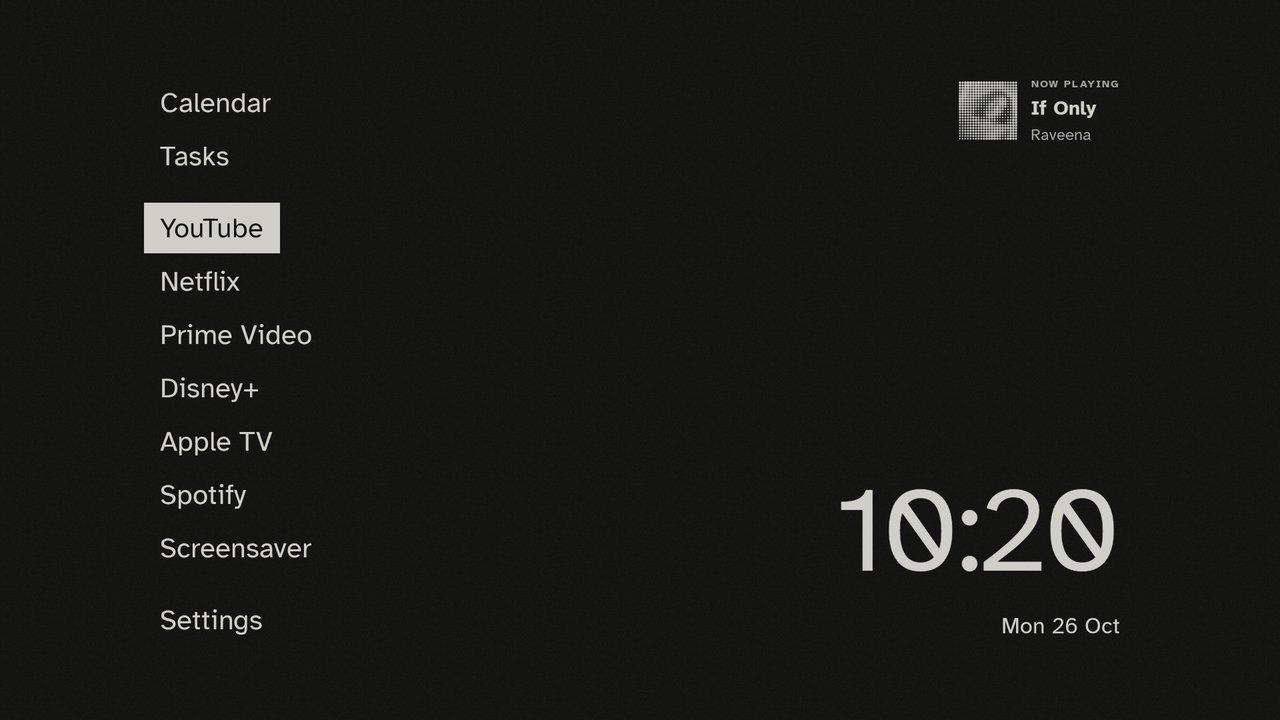
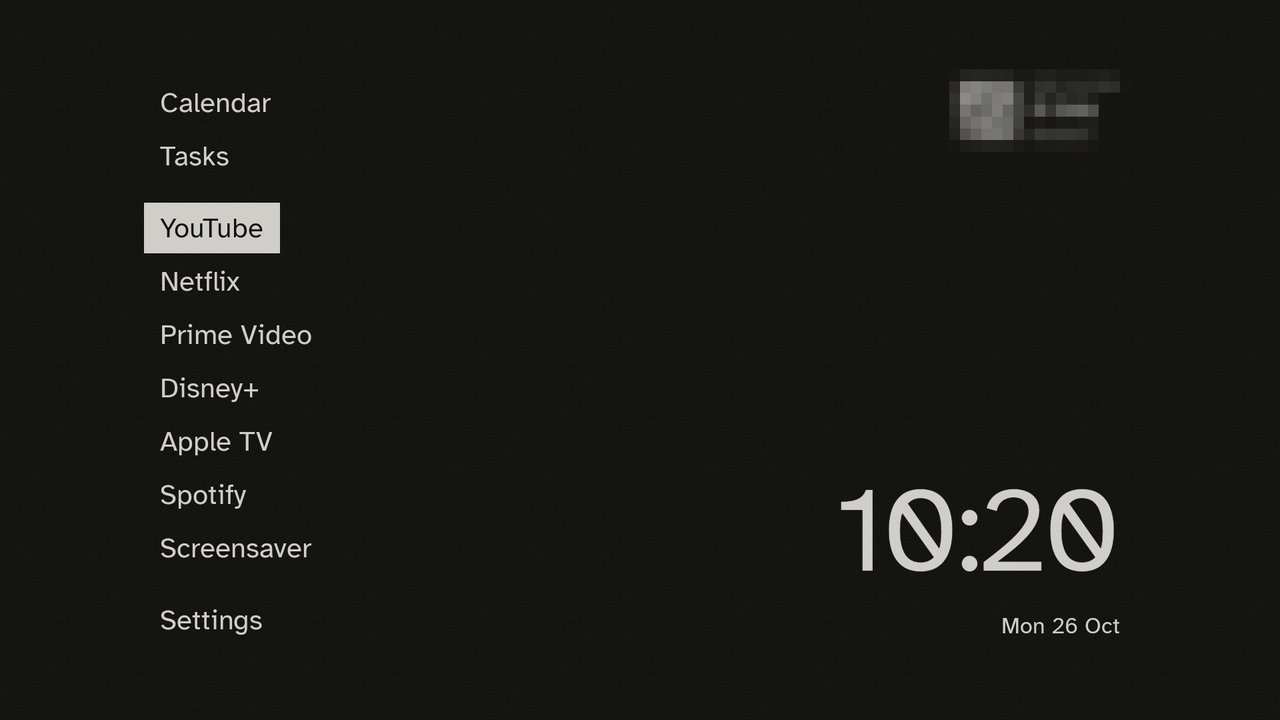
docs: connect your own Google Calendar and Tasks (docs/google-calendar-tasks.md)
A step-by-step guide for anyone setting up Today: the Apps Script in their own account, what Google asks, a
browser test, building it in, family calendars, changing the key and troubleshooting. The script now asks
for read-only Calendar access and Tasks only, and follows the person's Google Calendar time zone, so there
is nothing to set per country. The Home screenshot's now-playing block is blurred.

Changed region(s): [[0.7188, 0.0917, 0.875, 0.2139]]

diff --git a/docs/google-calendar-tasks.md b/docs/google-calendar-tasks.md
@@ -1,0 +1,144 @@
+# Your Google Calendar and Tasks on the TV
+
+This guide connects **your own** Google Calendar and Google Tasks to the Ink edition: the Calendar and Tasks rows on
+the e-ink Home, their previews, the full Calendar and Tasks screens (where OK ticks a task off), the morning board
+and the "Next" line on the screensaver. It takes about fifteen minutes, in a web browser, and needs no programming.
+
+You need a Google account with your calendar in it, and a computer with this repository on it (the same one you
+build the apps with).
+
+## How it works
+
+```
+ Google Calendar ─┐                                    ┌─> Today add-on on the TV ─> e-ink Home
+ Google Tasks ────┼─> your Apps Script (your account) ─┤     (asks every 15 minutes
+                  │    answers with today's agenda     │      while a screen shows it)
+                  └─   as JSON, only to the right key  ┘
+```
+
+Google's sign-in for TVs can't give an app access to Calendar or Tasks, so the TV never signs in to Google. Instead
+a small script runs **in your own Google account**, reads today's events and your open tasks, and answers the TV.
+
+- The script is yours: it runs under your account, from code you paste in, and you can delete it at any time.
+- It answers only a request that carries its **key**, a long random password it makes for itself. The web address and
+  the key are built into your copy of the Today app, and nowhere else.
+- Nothing goes through this project, Google Cloud billing or anyone else's server. There is no account on the TV.
+
+## 1. Create the script
+
+1. Open [script.google.com](https://script.google.com) signed in to the Google account whose calendar you want, and
+   click **New project**.
+2. Click **Untitled project** at the top and name it, for example **TV agenda**. The name only helps you find it later.
+3. Select everything in the editor (`Code.gs`), delete it, and paste in the whole of
+   [`addons/morning-board/apps-script/Code.gs`](../addons/morning-board/apps-script/Code.gs). Click the save icon.
+4. **Project Settings** (the gear in the left column) › tick **Show "appsscript.json" manifest file in editor**.
+   Back in the editor, open `appsscript.json`, replace everything in it with
+   [`apps-script/appsscript.json`](../addons/morning-board/apps-script/appsscript.json), and save. This file turns on
+   Google Tasks for the script and limits what it may ask for: your calendars **read-only**, and your tasks.
+
+The time zone comes from your Google Calendar (Calendar › Settings › General › Time zone), so there is nothing to
+set for it here.
+
+## 2. Allow it to read your calendar and tasks
+
+1. In the toolbar, choose **setup** in the function list next to **Debug**, and click **Run**.
+2. Google asks for permission: **Review permissions**, pick your account.
+3. Google warns **"Google hasn't verified this app"**. That is expected: it is your own script, not a published app.
+   Click **Advanced**, then **Go to TV agenda (unsafe)**. It asks for two things: to **view** your calendars (it
+   can't change them) and to **create, edit and delete** your tasks (so OK on the TV can tick one off; it never
+   creates or deletes any). Click **Allow**. If it asks to edit or delete your calendars, the manifest from step 1.4
+   is missing: go back and paste it.
+4. The **Execution log** opens at the bottom. Its first line is `key=` followed by 32 letters and digits: **that is
+   your key**. Below it is today's agenda as the TV will see it. Check that `timeZone` is where you live and that
+   today's events are there.
+
+Running **setup** again later shows the same key; it never changes on its own.
+
+## 3. Publish it as a web app
+
+1. **Deploy** (top right) › **New deployment**.
+2. Click the gear next to **Select type** and choose **Web app**.
+3. Description: anything, for example `TV`. **Execute as: Me**. **Who has access: Anyone**.
+   "Anyone" is needed because the TV can't sign in to Google; the key is what keeps others out.
+4. **Deploy**, then copy the **Web app URL**. It looks like
+   `https://script.google.com/macros/s/AKfy…/exec`.
+
+## 4. Try it in your browser
+
+Open your web app URL with `?key=` and your key on the end:
+
+```
+https://script.google.com/macros/s/AKfy…/exec?key=YOUR_KEY
+```
+
+You should see a page of text starting `{"ok":true,"timeZone":…` with your events and tasks. That is exactly what
+the TV will get. With a wrong key you get `{"ok":false,"error":"key"}`, and no agenda.
+
+Treat this address with the key like a password: anyone who has both can read today's agenda and tick off your
+tasks. Don't post it, screenshot it or paste it into an issue.
+
+## 5. Build it into the app
+
+1. In the repository, copy `addons/morning-board/board.properties.example` to `addons/morning-board/board.properties`
+   (git ignores this file, so it can't be committed by mistake) and fill in the two lines:
+
+   ```properties
+   url=https://script.google.com/macros/s/AKfy…/exec
+   key=YOUR_KEY
+   ```
+
+2. Build and install Today again, and the launcher if it isn't installed yet, both on this computer
+   ([README › Set it up](../README.md#set-it-up)). If you set things up with a coding agent through
+   [INK-PROMPT.md](../INK-PROMPT.md), tell it the file is filled in and it will rebuild.
+3. On the TV, open **Calendar** from Home. The first time, it says **Fetching today…** for a moment, then shows your
+   day. Home's previews fill in from then on.
+
+## What shows up
+
+- **Events:** today's and tomorrow's from every calendar that is **ticked** in the left column of Google Calendar
+  (on the web, under My calendars and Other calendars). Untick a calendar there to keep it off the TV. Events you
+  declined are left out, and an event on two calendars appears once. On a day with nothing on, the next day that has
+  something (within 60 days) is shown instead.
+- **Tasks:** the open tasks from all your task lists, overdue and due today first, then by date, undated last; and
+  what you ticked off today. OK on a task on the TV marks it done in Google Tasks.
+- **When it updates:** the TV asks while Calendar, Tasks or the morning board is on screen (every 15 minutes) and when
+  Home comes up (at most every 5 minutes). When the network is down it shows the last answer and when it came.
+
+### A family calendar
+
+The script shows the calendars of the account that deployed it. For a household TV, either add the family's shared
+calendars to that account (Google Calendar › Other calendars › **+** › Subscribe, or accept the share), or make one
+Google account for the TV, share everyone's calendars with it, and deploy the script from that account.
+
+## Changing it later
+
+- **Edited the script** (a new version from this repo, say): paste it in, save, then **Deploy › Manage deployments ›**
+  the pencil › **Version: New version** › **Deploy**. The URL stays the same, so the TV needs nothing. Choosing
+  **New deployment** instead gives a new URL, and Today has to be rebuilt with it.
+- **A new key** (if the URL and key ever got out): Project Settings › Script properties › delete `KEY`, run **setup**
+  again for the new key, put it in `board.properties` and rebuild Today. The old key stops working at once.
+- **Turning it off:** Deploy › Manage deployments › **Archive** stops the web app. To withdraw its access to your
+  account as well, remove it at [myaccount.google.com/permissions](https://myaccount.google.com/permissions), or
+  delete the project in [script.google.com](https://script.google.com).
+
+## When something is wrong
+
+| What you see | What it means, and what to do |
+|---|---|
+| The TV says **Today needs its address** | Today was built without `board.properties`. Fill it in and rebuild Today. |
+| The TV says **Can't reach your calendar yet** | The TV got no agenda. Try the address from step 4 in a browser. If that works, check the TV is online and that `board.properties` has the same URL and key, then rebuild. |
+| The browser shows a Google sign-in page or "Sorry, unable to open the file" | The deployment isn't open to **Anyone**. Manage deployments › the pencil › Who has access: Anyone. |
+| `{"ok":false,"error":"key"}` | The key in the address doesn't match. Run **setup** to see the right one; copy all 32 characters. |
+| `Authorization is required` or `Exception: …` in the browser | The script changed since you allowed it. Run **setup** again and allow it, then make a new version (above). |
+| Times are an hour or a whole zone off | Check `timeZone` in the browser answer against Google Calendar › Settings › Time zone, and the TV's own time zone (Settings › System › Date & time). |
+| An event is missing | Its calendar is unticked or hidden in Google Calendar, you declined it, or it is on a calendar this account can't see. |
+| A task is missing | It is completed, has no title, or is in a list of another account. |
+| Google says the app is blocked | A work or school (Google Workspace) account whose admin doesn't allow unverified scripts. Use a personal account, or ask the admin. |
+
+## For the curious
+
+The whole script is about 170 lines: [`Code.gs`](../addons/morning-board/apps-script/Code.gs). It uses Google's
+built-in `CalendarApp` (with the read-only calendar scope) and the Tasks API, both free for personal use, and reaches
+nothing else: no Gmail, no Drive, no outside address; the TV's few requests a day are far inside
+Google's daily limits. You can also push it from the command line with
+[clasp](https://github.com/google/clasp) (`clasp push`, then `clasp deploy -i <deployment id>` to keep the URL).

diff --git a/README.md b/README.md
@@ -12,7 +12,7 @@ real ones do. No ads, no root, nothing uninstalled, one line to undo.</p>
 </p>
 
 <p align="center">
-  <img src="docs/switches/ink_home.jpg" width="49%" alt="The e-ink Home on a Chromecast with Google TV: a text list of Calendar, Tasks, apps, Screensaver and Settings beside the big clock, with the song playing at the top right">
+  <img src="docs/switches/ink_home.jpg" width="49%" alt="The e-ink Home on a Chromecast with Google TV: a text list of Calendar, Tasks, apps, Screensaver and Settings beside the big clock, with the now-playing block at the top right blurred">
   <img src="addons/morning-board/screenshot.jpg" width="49%" alt="The Ink Menagerie screensaver on a Chromecast with Google TV: a gaur (Seladang) in light ink on a dark page, beside the big clock and the date">
 </p>
 
@@ -28,7 +28,7 @@ and redraws Home as e-ink.
 - **Your day at a glance.** With Calendar or Tasks selected, today's events or your open tasks appear beside the
   list. Open them for the full Calendar and Tasks screens, where OK ticks a task off in Google Tasks. A small Apps
   Script in your own Google account feeds them: no Google sign-in on the TV, nothing shared with anyone.
-  [Today add-on](addons/morning-board/README.md)
+  [How to connect your calendar](docs/google-calendar-tasks.md)
 - **Now playing and last watched.** While Spotify plays, the song sits at the top right with its cover in shades of
   ink and three little bars that move with the music. Select the Spotify row for a larger view with a progress line;
   hold OK to pause or play. Select YouTube, Netflix, Prime Video, Apple TV or Hotstar and the top right shows the
@@ -61,9 +61,9 @@ run upstream's [PROMPT.md](PROMPT.md) first.
 git clone https://github.com/mrfritzdjango/cleanyourtv-ink.git && cd cleanyourtv-ink
 ```
 
-1. **Calendar and Tasks** (optional): set up the Apps Script
-   ([five steps](addons/morning-board/README.md#1-the-apps-script-your-google-account)), then copy
-   `addons/morning-board/board.properties.example` to `board.properties` and fill in its URL and key.
+1. **Calendar and Tasks** (optional): connect your Google account with a small script of your own, about fifteen
+   minutes in a browser: [docs/google-calendar-tasks.md](docs/google-calendar-tasks.md). It ends with a URL and a
+   key in `addons/morning-board/board.properties`.
 2. **Today**: `cd addons/morning-board && ./gradlew assembleRelease` and install
    `app/build/outputs/apk/release/app-release.apk`.
 3. **The launcher**: `TV_HOST=<tv ip> launcher/build-and-install.sh` builds it, installs it and makes it Home. Build
@@ -83,7 +83,8 @@ launcher instead.
 
 - The launcher has no internet permission. Everything it shows comes from Today, through a permission only your own
   build of Today grants.
-- Today talks only to your own Apps Script, at the address and key built into your APK; keep both private.
+- Today talks only to your own Apps Script, at the address and key built into your APK; keep both private. The
+  script can read your calendars but not change them, and only ticks off a task when you press OK on it.
 - Now playing reads the media session (title, artist, cover) of the apps listed in `options.xml`. It never reads
   your notifications, and nothing leaves the TV.
 - No accounts, analytics or telemetry.

diff --git a/addons/morning-board/README.md b/addons/morning-board/README.md
@@ -22,20 +22,20 @@ Left and right swap Calendar and Tasks, Back goes Home. Night ink (light on dark
 Google's sign-in for TVs can't read Calendar or Tasks, so a small script in your own account does, and answers the
 TV with today's agenda as JSON. Nothing else sees your data.
 
-1. Open [script.google.com](https://script.google.com), **New project**.
-2. Paste [`apps-script/Code.gs`](apps-script/Code.gs) over the default file.
-3. **Project Settings** › tick **Show "appsscript.json" manifest file**, then paste
-   [`apps-script/appsscript.json`](apps-script/appsscript.json) into it. It turns on the Tasks service and sets the
-   time zone to `Asia/Kuala_Lumpur`: **change `timeZone` to yours** (an
-   [IANA name](https://en.wikipedia.org/wiki/List_of_tz_database_time_zones) such as `Europe/London`).
-4. Choose **setup** in the function list and **Run**. Allow access to your Calendar and Tasks (Google warns the
-   app is unverified: it is yours; **Advanced › Go to project**). The log shows `key=…` and today's agenda.
-5. **Deploy › New deployment › Web app**: Execute as **Me**, Who has access: **Anyone**. Copy the URL ending in
-   `/exec`.
+**The step-by-step guide, with what Google asks at each step, how to test it and what to do when it goes wrong, is
+[docs/google-calendar-tasks.md](../../docs/google-calendar-tasks.md).** In short:
 
-Anyone with the URL **and** the key can read today's agenda and tick off your tasks, so keep both private. To
-change the key, delete `KEY` under Project Settings › Script properties and run `setup` again. After editing the
-script, use **Deploy › Manage deployments › Edit › New version** so the URL stays the same.
+1. [script.google.com](https://script.google.com) › **New project**. Paste [`apps-script/Code.gs`](apps-script/Code.gs)
+   over the default file.
+2. **Project Settings** › tick **Show "appsscript.json" manifest file**, then paste
+   [`apps-script/appsscript.json`](apps-script/appsscript.json) into it. It turns on the Tasks service and limits the
+   script to reading your calendars and your tasks. The time zone follows your Google Calendar's.
+3. Choose **setup** in the function list and **Run**. Allow it (Google warns the app is unverified: it is yours;
+   **Advanced › Go to project**). The log shows `key=…` and today's agenda.
+4. **Deploy › New deployment › Web app**: Execute as **Me**, Who has access: **Anyone**. Copy the URL ending in
+   `/exec`, and try it in a browser with `?key=<the key>` on the end.
+
+Anyone with the URL **and** the key can read today's agenda and tick off your tasks, so keep both private.
 
 ## 2. Build and install
 

diff --git a/INK-PROMPT.md b/INK-PROMPT.md
@@ -51,10 +51,10 @@ step 8 puts back.
 
 ### 4. Ask the person, in one checklist
 
-- **Calendar and Tasks** from their Google account? Then walk them through the Apps Script in
-  [`addons/morning-board/README.md`](addons/morning-board/README.md#1-the-apps-script-your-google-account) (five steps
-  in their browser, including the time zone in `appsscript.json`), and have them put the `/exec` URL and the key into
-  `addons/morning-board/board.properties` themselves (copy `board.properties.example`). Never paste the key into a
+- **Calendar and Tasks** from their Google account? Then walk them through
+  [`docs/google-calendar-tasks.md`](docs/google-calendar-tasks.md), one step at a time in their browser (they click,
+  you explain; you can't do it for them), including the browser test in its step 4. Have them put the `/exec` URL and
+  the key into `addons/morning-board/board.properties` themselves (copy `board.properties.example`). Never paste the key into a
   commit, an issue or a screenshot. Without it the apps still work: Calendar and Tasks show how to set it up.
 - **The animal screensaver** in place of the current one?
 - **Now playing** (the song Spotify plays, and the last show watched in YouTube, Netflix and other streaming apps,
